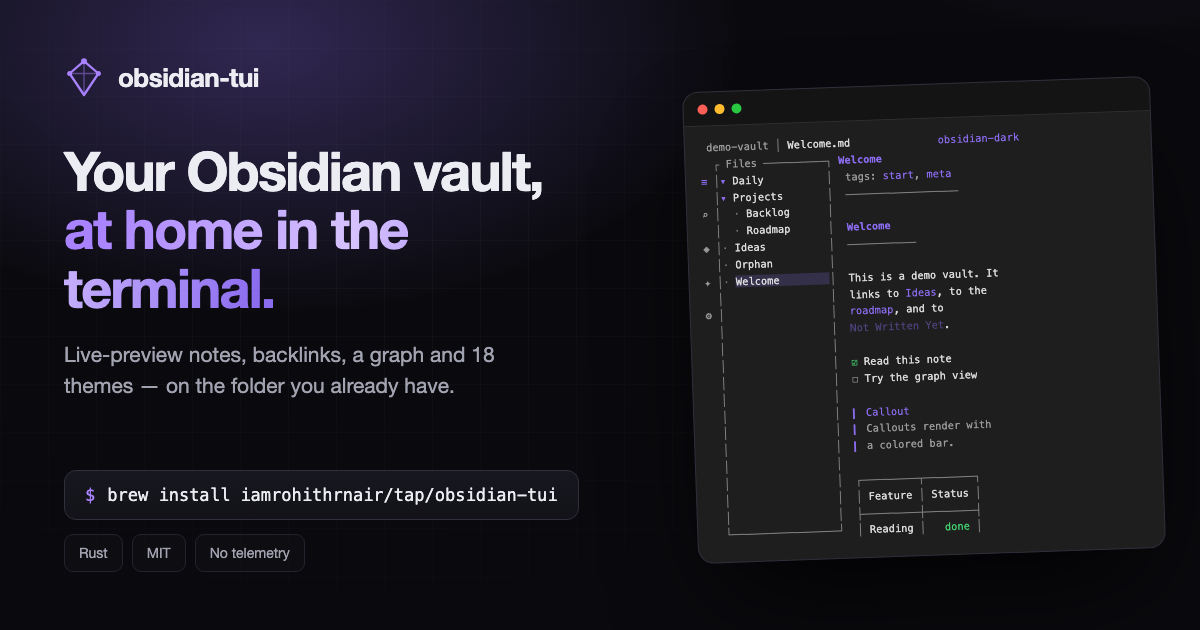
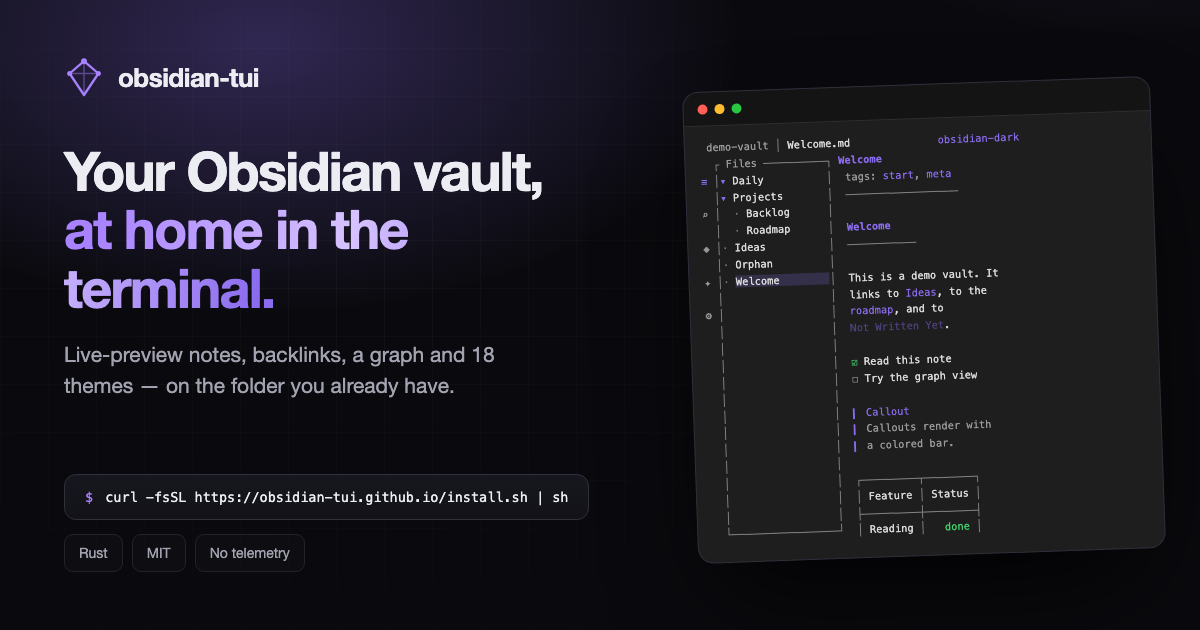
Lead with the curl installer, and correct the page against v0.1.1
The one-line installer is now the default everywhere the page offers one —
hero, install tabs, closing call to action and the share card — served from
https://obsidian-tui.github.io/install.sh rather than the raw.githubusercontent
URL, which is half the length and fits on one line of a social card.

Serving the installer from the site means the site now has a copy of it, so
add a workflow that pushes docs/ and install.sh to the site repository on
every change. A stale page is untidy; a stale installer is a hazard. Gated on
SITE_DEPLOY_TOKEN and reports a skip without it, as the release workflow does.

Corrections against 0.1.1:

- The page repeated the README's claim that Obsidian has no official CLI. It
  does, and the two tools do different jobs, so say what each is for and that
  /obsidian open bridges them.
- Keys said "vim's where it doesn't", and listed neither `?` nor `q`. Added
  those, plus Ctrl+S, Alt+Left, and the note that `q` stays a letter wherever
  you might be typing.
- Added the graph's own keys, and the assistant's slash commands.

Changed region(s): [[0.0617, 0.7238, 0.4933, 0.8143]]

diff --git a/docs/index.html b/docs/index.html
@@ -86,9 +86,9 @@
     </p>
 
     <div class="cta-row">
-      <button class="copy-cmd" data-copy="brew install iamrohithrnair/tap/obsidian-tui" aria-label="Copy the install command to your clipboard">
+      <button class="copy-cmd" data-copy="curl -fsSL https://obsidian-tui.github.io/install.sh | sh" aria-label="Copy the install command to your clipboard">
         <span class="sigil" aria-hidden="true">$</span>
-        <code>brew install iamrohithrnair/tap/obsidian-tui</code>
+        <code>curl -fsSL https://obsidian-tui.github.io/install.sh | sh</code>
         <span class="copy-icon" aria-hidden="true">
           <svg viewBox="0 0 20 20" width="17" height="17" fill="none" stroke="currentColor" stroke-width="1.6" stroke-linecap="round" stroke-linejoin="round">
             <rect x="7" y="7" width="10" height="10" rx="2"/><path d="M13 4.5H5A1.5 1.5 0 0 0 3.5 6v8"/>
@@ -99,7 +99,7 @@
     </div>
 
     <p class="micro">
-      Prefer <code>curl</code>, <code>npm</code> or <code>cargo</code>? All four are two lines down.
+      Rather use <code>brew</code>, <code>npm</code> or <code>cargo</code>? All four are two lines down.
     </p>
   </div>
 </section>
@@ -246,6 +246,9 @@
           can search, read, create, edit, rename, link and delete notes, and put one on
           your screen. Every tool call appears in the transcript, so you're reading what
           it actually did rather than trusting a summary of it.
+          Type <code>/</code> for slash commands that never reach the model:
+          <code>/model</code> switches backend, <code>/save</code> and <code>/resume</code>
+          keep a conversation for tomorrow, <code>/compact</code> buys back context.
           <span class="muted">Bring an Anthropic key, point it at Ollama on localhost, or leave it switched off entirely — nothing else in the app depends on it.</span>
         </p>
       </article>
@@ -324,7 +327,7 @@
 <section id="keys" class="keys" aria-labelledby="keys-h">
   <div class="wrap">
     <p class="kicker">Muscle memory</p>
-    <h2 id="keys-h">Obsidian's shortcuts where it has them. Vim's where it doesn't.</h2>
+    <h2 id="keys-h">Obsidian's shortcuts where it has them. The terminal's where it doesn't.</h2>
     <p class="section-lede">
       Nothing new to learn on day one. A hint bar above the status line shows the keys that
       apply to wherever you're standing, and <kbd>?</kbd> opens the full list. When it starts
@@ -336,13 +339,30 @@
       <div class="krow"><span class="kk"><kbd>Ctrl</kbd><kbd>P</kbd></span><span class="kd">Command palette</span></div>
       <div class="krow"><span class="kk"><kbd>Ctrl</kbd><kbd>Shift</kbd><kbd>F</kbd></span><span class="kd">Search every note</span></div>
       <div class="krow"><span class="kk"><kbd>Ctrl</kbd><kbd>E</kbd></span><span class="kd">Reading ↔ editing</span></div>
-      <div class="krow"><span class="kk"><kbd>Ctrl</kbd><kbd>N</kbd> / <kbd>Ctrl</kbd><kbd>D</kbd></span><span class="kd">New note / today's daily note</span></div>
+      <div class="krow"><span class="kk"><kbd>Ctrl</kbd><kbd>N</kbd> / <kbd>Ctrl</kbd><kbd>S</kbd></span><span class="kd">New note / save</span></div>
+      <div class="krow"><span class="kk"><kbd>Ctrl</kbd><kbd>D</kbd></span><span class="kd">Today's daily note</span></div>
       <div class="krow"><span class="kk"><kbd>Ctrl</kbd><kbd>G</kbd></span><span class="kd">Graph — add <kbd>Shift</kbd> for the local one</span></div>
       <div class="krow"><span class="kk"><kbd>Ctrl</kbd><kbd>L</kbd></span><span class="kd">Assistant panel</span></div>
-      <div class="krow"><span class="kk"><kbd>Tab</kbd></span><span class="kd">Move between panes</span></div>
-      <div class="krow"><span class="kk"><kbd>h</kbd><kbd>j</kbd><kbd>k</kbd><kbd>l</kbd></span><span class="kd">Move within one</span></div>
+      <div class="krow"><span class="kk"><kbd>Tab</kbd> / <kbd>Shift</kbd><kbd>Tab</kbd></span><span class="kd">Move between panes</span></div>
+      <div class="krow"><span class="kk"><kbd>h</kbd><kbd>j</kbd><kbd>k</kbd><kbd>l</kbd></span><span class="kd">Move within one — arrows work too</span></div>
       <div class="krow"><span class="kk"><kbd>Enter</kbd></span><span class="kd">Open, or follow a link</span></div>
+      <div class="krow"><span class="kk"><kbd>Alt</kbd><kbd>←</kbd></span><span class="kd">Back to the previous note</span></div>
+      <div class="krow"><span class="kk"><kbd>?</kbd></span><span class="kd">Every shortcut, grouped</span></div>
+      <div class="krow"><span class="kk"><kbd>q</kbd></span><span class="kd">Quit — it asks first</span></div>
     </div>
+
+    <p class="keys-foot">
+      <kbd>q</kbd> is careful about where it quits from. Anywhere you might be typing — the
+      editor, the chat box, a search field — it stays an ordinary letter, and
+      <kbd>Ctrl</kbd><kbd>Q</kbd> is the way out instead.
+    </p>
+
+    <p class="keys-foot">
+      In the graph the keys are its own: <kbd>h</kbd><kbd>j</kbd><kbd>k</kbd><kbd>l</kbd> pans,
+      <kbd>+</kbd> and <kbd>-</kbd> zoom, <kbd>f</kbd> fits the whole thing on screen,
+      <kbd>Tab</kbd> steps between nodes, <kbd>c</kbd> recentres on the one you've picked, and
+      <kbd>L</kbd>, <kbd>u</kbd> and <kbd>t</kbd> toggle labels, unresolved links and tags.
+    </p>
 
     <p class="keys-foot">
       And if you'd rather point at things: the ribbon icons are buttons, notes and folders
@@ -359,27 +379,27 @@
     <h2 id="install-h">Pick whichever one you already trust.</h2>
 
     <div class="tabs" role="tablist" aria-label="Installation method">
-      <button role="tab" id="t-brew"  aria-controls="p-brew"  aria-selected="true"  class="tab is-on">Homebrew</button>
-      <button role="tab" id="t-curl"  aria-controls="p-curl"  aria-selected="false" class="tab" tabindex="-1">curl</button>
+      <button role="tab" id="t-curl"  aria-controls="p-curl"  aria-selected="true"  class="tab is-on">curl</button>
+      <button role="tab" id="t-brew"  aria-controls="p-brew"  aria-selected="false" class="tab" tabindex="-1">Homebrew</button>
       <button role="tab" id="t-npm"   aria-controls="p-npm"   aria-selected="false" class="tab" tabindex="-1">npm</button>
       <button role="tab" id="t-cargo" aria-controls="p-cargo" aria-selected="false" class="tab" tabindex="-1">cargo</button>
     </div>
 
     <div class="panels">
-      <div role="tabpanel" id="p-brew" aria-labelledby="t-brew" class="panel is-on" tabindex="0">
+      <div role="tabpanel" id="p-curl" aria-labelledby="t-curl" class="panel is-on" tabindex="0">
+        <button class="copy-cmd wide" data-copy="curl -fsSL https://obsidian-tui.github.io/install.sh | sh">
+          <span class="sigil" aria-hidden="true">$</span><code>curl -fsSL https://obsidian-tui.github.io/install.sh | sh</code>
+          <span class="copy-icon" aria-hidden="true"><svg viewBox="0 0 20 20" width="17" height="17" fill="none" stroke="currentColor" stroke-width="1.6" stroke-linecap="round" stroke-linejoin="round"><rect x="7" y="7" width="10" height="10" rx="2"/><path d="M13 4.5H5A1.5 1.5 0 0 0 3.5 6v8"/></svg></span>
+        </button>
+        <p class="panel-note">macOS and Linux. Works out which build fits your machine, downloads it and checks it against its published checksum before anything moves. <code>OTUI_BIN_DIR</code> chooses where it lands; <code>OTUI_VERSION</code> pins a release. Piping a script into a shell is worth a read first — <a href="https://github.com/iamrohithrnair/obsidian-tui/blob/main/install.sh">here it is in full</a>.</p>
+      </div>
+
+      <div role="tabpanel" id="p-brew" aria-labelledby="t-brew" class="panel" tabindex="0" hidden>
         <button class="copy-cmd wide" data-copy="brew install iamrohithrnair/tap/obsidian-tui">
           <span class="sigil" aria-hidden="true">$</span><code>brew install iamrohithrnair/tap/obsidian-tui</code>
           <span class="copy-icon" aria-hidden="true"><svg viewBox="0 0 20 20" width="17" height="17" fill="none" stroke="currentColor" stroke-width="1.6" stroke-linecap="round" stroke-linejoin="round"><rect x="7" y="7" width="10" height="10" rx="2"/><path d="M13 4.5H5A1.5 1.5 0 0 0 3.5 6v8"/></svg></span>
         </button>
         <p class="panel-note">macOS and Linux, from the project's own tap.</p>
-      </div>
-
-      <div role="tabpanel" id="p-curl" aria-labelledby="t-curl" class="panel" tabindex="0" hidden>
-        <button class="copy-cmd wide" data-copy="curl -fsSL https://raw.githubusercontent.com/iamrohithrnair/obsidian-tui/main/install.sh | sh">
-          <span class="sigil" aria-hidden="true">$</span><code>curl -fsSL https://raw.githubusercontent.com/iamrohithrnair/obsidian-tui/main/install.sh | sh</code>
-          <span class="copy-icon" aria-hidden="true"><svg viewBox="0 0 20 20" width="17" height="17" fill="none" stroke="currentColor" stroke-width="1.6" stroke-linecap="round" stroke-linejoin="round"><rect x="7" y="7" width="10" height="10" rx="2"/><path d="M13 4.5H5A1.5 1.5 0 0 0 3.5 6v8"/></svg></span>
-        </button>
-        <p class="panel-note">Grabs the right build for your machine and verifies its checksum before it moves anything. <code>OTUI_BIN_DIR</code> chooses where it lands; <code>OTUI_VERSION</code> pins a release. Piping a script into a shell deserves a read first — <a href="https://github.com/iamrohithrnair/obsidian-tui/blob/main/install.sh">here it is</a>.</p>
       </div>
 
       <div role="tabpanel" id="p-npm" aria-labelledby="t-npm" class="panel" tabindex="0" hidden>
@@ -405,7 +425,8 @@
 <span class="tk-cmd">obsidian-tui</span>                   <span class="tk-cm"># whatever Obsidian had open last</span>
 <span class="tk-cmd">obsidian-tui</span> --list-vaults     <span class="tk-cm"># everything Obsidian knows about</span></code></pre>
       <p class="panel-note">
-        Obsidian has no official CLI, only its URI scheme — so this works too:
+        It also answers to the <code>obsidian://</code> URIs the desktop app registers, so a
+        link or a script that opens Obsidian opens this too:
         <code>obsidian-tui 'obsidian://open?vault=Notes&amp;file=Ideas'</code>. And for the days
         you don't want a UI at all:
         <code>obsidian-tui ~/Notes --prompt "which notes mention the Q3 migration?"</code>
@@ -439,6 +460,20 @@
       <p>
         Yes — that's the point. It's the same folder on the same disk, and both apps are
         happy to be in it at once. Use whichever one suits the moment.
+      </p>
+    </details>
+
+    <details>
+      <summary>Obsidian ships its own CLI now. Why this?</summary>
+      <p>
+        They do different jobs. Obsidian's
+        <a href="https://obsidian.md/cli">official CLI</a> drives the running desktop app,
+        so it needs the app open and a desktop to open it on. obsidian-tui talks to the
+        vault's files instead, which means it works with Obsidian closed, over SSH, and
+        inside a container. They get along: when the <code>obsidian</code> binary is on your
+        <code>PATH</code>, <code>/obsidian open</code> — or "Open this note in Obsidian" in
+        the command palette — hands the note you're reading to the desktop app for the one
+        thing only it can do. If the CLI isn't enabled, obsidian-tui says so and carries on.
       </p>
     </details>
 
@@ -488,8 +523,8 @@
     <h2>Your notes are already on your machine.</h2>
     <p>Now you don't have to leave the terminal to think in them.</p>
     <div class="cta-row center">
-      <button class="copy-cmd" data-copy="brew install iamrohithrnair/tap/obsidian-tui">
-        <span class="sigil" aria-hidden="true">$</span><code>brew install iamrohithrnair/tap/obsidian-tui</code>
+      <button class="copy-cmd" data-copy="curl -fsSL https://obsidian-tui.github.io/install.sh | sh">
+        <span class="sigil" aria-hidden="true">$</span><code>curl -fsSL https://obsidian-tui.github.io/install.sh | sh</code>
         <span class="copy-icon" aria-hidden="true"><svg viewBox="0 0 20 20" width="17" height="17" fill="none" stroke="currentColor" stroke-width="1.6" stroke-linecap="round" stroke-linejoin="round"><rect x="7" y="7" width="10" height="10" rx="2"/><path d="M13 4.5H5A1.5 1.5 0 0 0 3.5 6v8"/></svg></span>
       </button>
       <a class="btn btn-solid" href="https://github.com/iamrohithrnair/obsidian-tui">Read the source</a>
